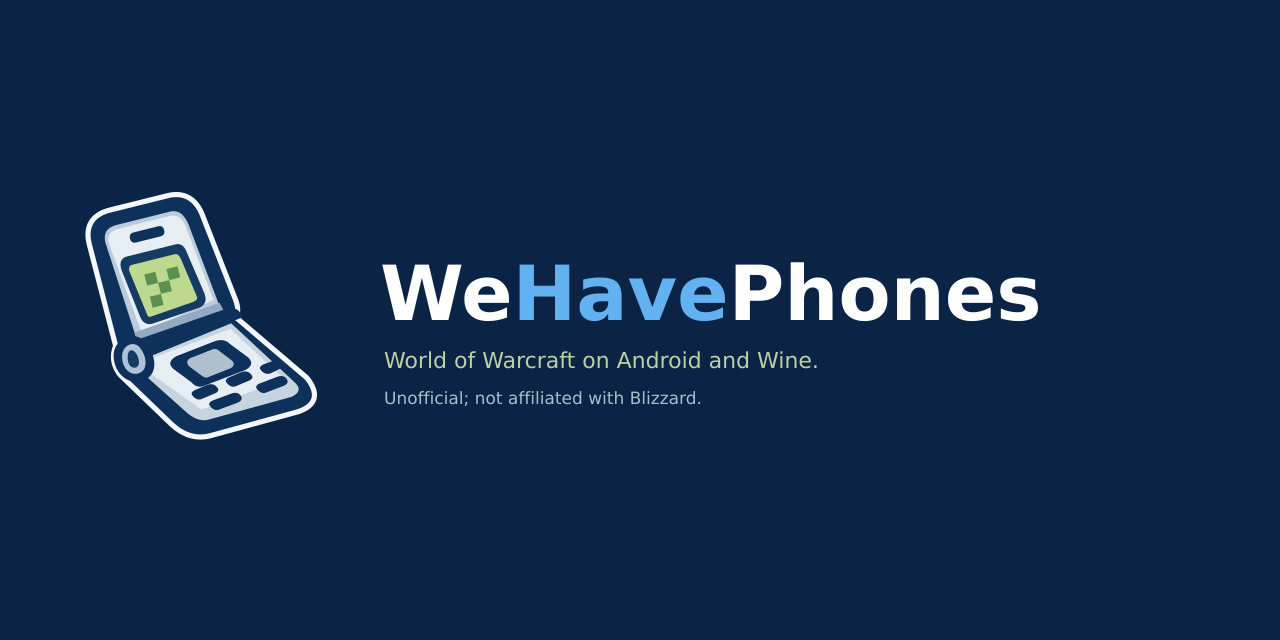
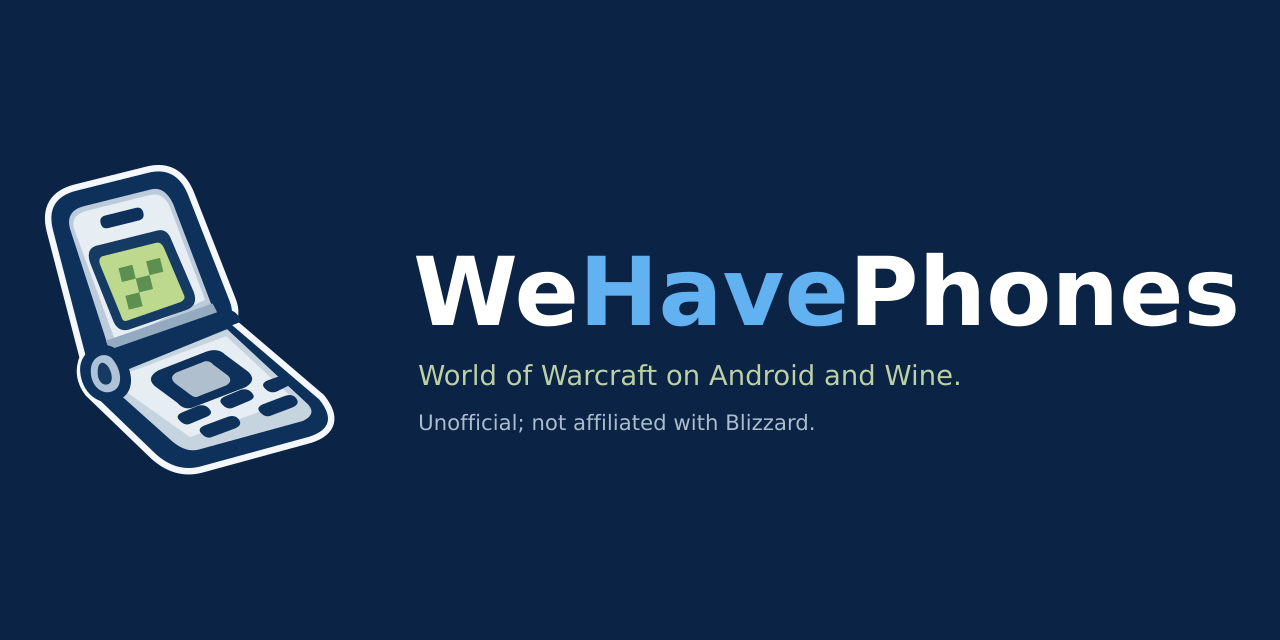
Enlarge the social preview artwork to trim the empty margins
The social preview reused the banner layout at its original size, which left
wide navy borders on the 1280x640 canvas. Scale the layout 1.25x about its
centre for the social preview only; the banner renders unchanged.

Changed region(s): [[0.2812, 0.375, 0.9688, 0.6875], [0.0312, 0.25, 0.2812, 0.75]]

diff --git a/scripts/render-phone-brand.py b/scripts/render-phone-brand.py
@@ -98,12 +98,15 @@ def wordmark(x,y,size,color='#FFFFFF'):
 
 def brand():
     folder=ROOT/'docs/brand'
-    for name,w,h in [('banner',1280,400),('social-preview',1280,640)]:
+    # The social preview enlarges the banner layout about the centre of its
+    # drawn area (x 85-1038, y 191-440) so it fills the taller canvas.
+    for name,w,h,zoom in [('banner',1280,400,1),('social-preview',1280,640,1.25)]:
         y=(h-280)/2
-        content=f'<rect width="{w}" height="{h}" fill="#0B2344"/>'+mark(65,y,265)+wordmark(380,h/2,76)
+        content=mark(65,y,265)+wordmark(380,h/2,76)
         content+=f'<text x="384" y="{h/2+48}" fill="#BCD0A6" font-family="DejaVu Sans" font-size="22">World of Warcraft on Android and Wine.</text>'
         content+=f'<text x="384" y="{h/2+84}" fill="#A9BDCD" font-family="DejaVu Sans" font-size="17">Unofficial; not affiliated with Blizzard.</text>'
-        output(document(content,w,h),folder/f'{name}.png')
+        if zoom!=1:content=f'<g transform="translate({w/2} {h/2}) scale({zoom}) translate(-561.5 {-h/2+4})">{content}</g>'
+        output(document(f'<rect width="{w}" height="{h}" fill="#0B2344"/>'+content,w,h),folder/f'{name}.png')
     output(document(mark(18,4,276)+wordmark(330,181,95,'#0D315A'),1200,300),folder/'logo.png')
     output(document('<rect width="512" height="512" rx="94" fill="#287FD0"/>'+mark(48,15,416),512,512),folder/'icon.png')
     print('Rendered README banner, social preview and transparent wordmark')
